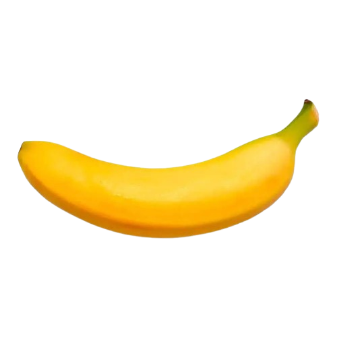
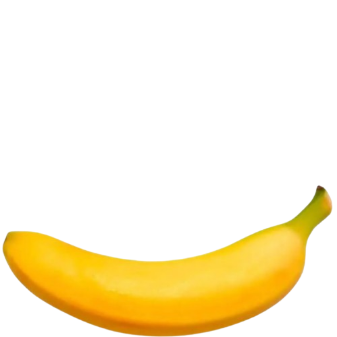
LuteLivre 1.0.0

diff --git a/src/js/script.js b/src/js/script.js
@@ -36,7 +36,7 @@ let player = {
 
 //Inimigo
 let enemy = {
-    x: 550,
+    x: 500,
     y: 50,
     width: 50,
     height: 50,
@@ -76,6 +76,11 @@ function draw() {
     if (enemyAlive) {
         ctx.drawImage(enemyImg, enemy.x, enemy.y, enemy.width, enemy.height);
     };
+
+    // Texto
+    ctx.font = "30px Arial";
+    ctx.fillStyle = "black";
+    ctx.fillText("Vida Inimigo: " + enemy.life, 50, 50)
 };
 
 function update() {
@@ -101,7 +106,6 @@ function update() {
 
     //Colisão com chão Player
     if (
-        player.y + player.height >= chao.y &&
         player.y + player.height >= chao.y &&
         player.vy >= 0
     ) {
@@ -141,7 +145,17 @@ function update() {
     // Morte do Inimigo
     if (enemy.life <= 0) {
         enemyAlive = false;
-        console.log("Inimigo Derrotado!")
+        console.log("Inimigo Derrotado!");
+        enemy.x = -1000;
+    }
+
+    //IA inimigo
+    if (enemyAlive) {
+        if (player.x < enemy.x) {
+            enemy.x -= 2;
+        } else if (player.x > enemy.x) {
+            enemy.x  += 2;
+        }
     }
 };
 
